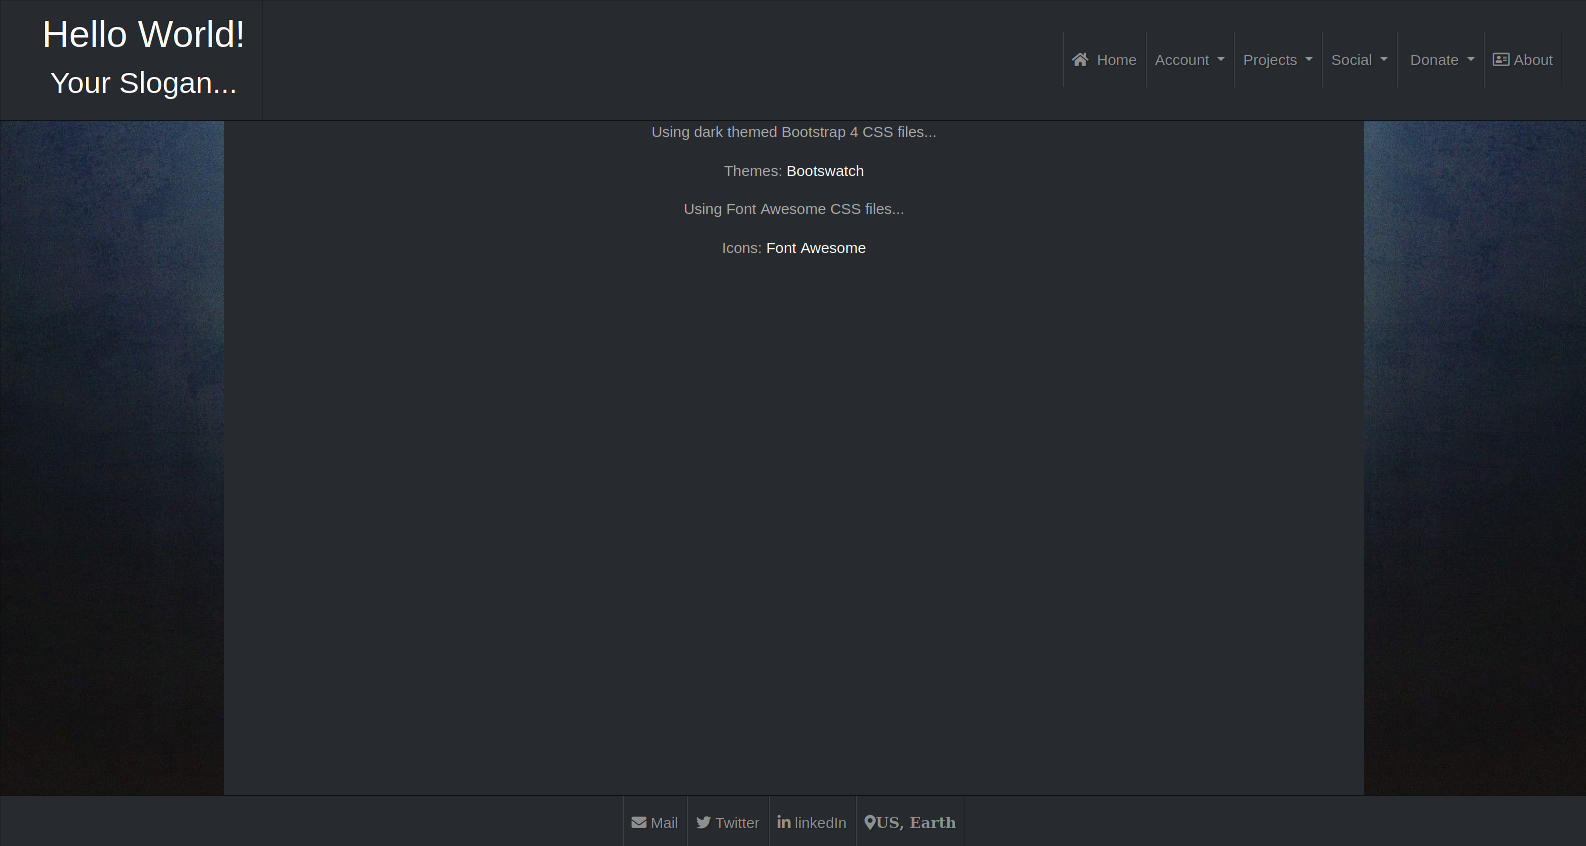
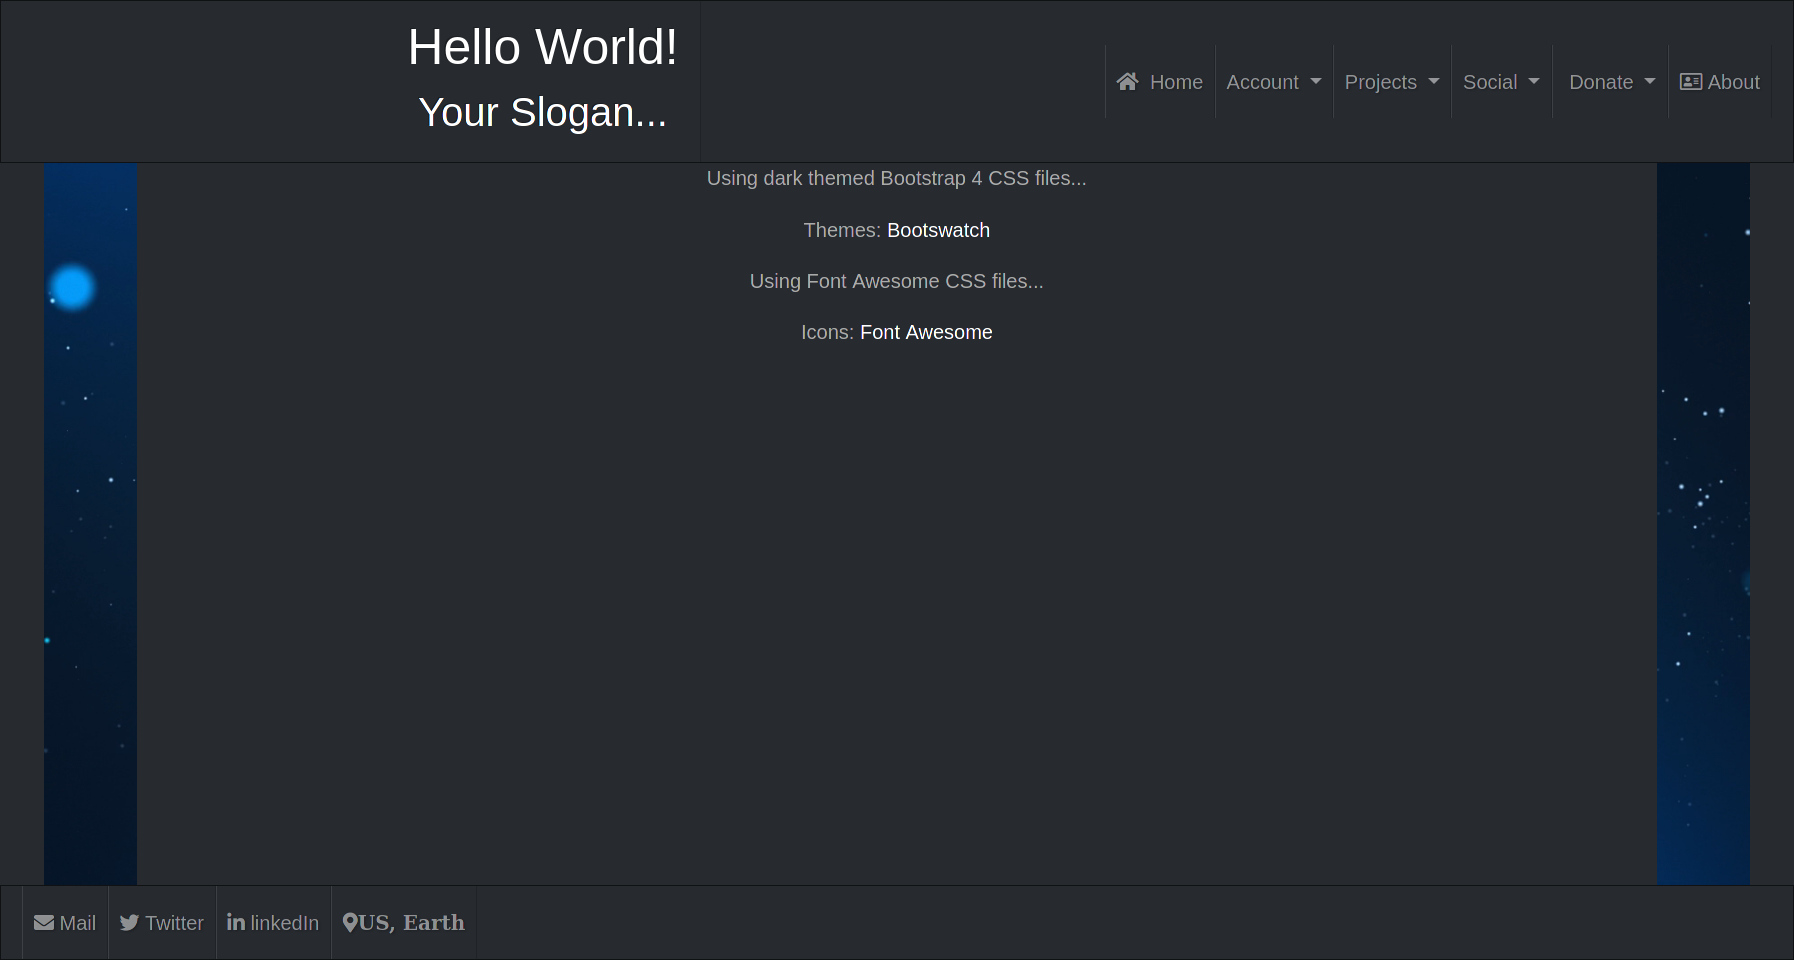
Updated collapse of menus

diff --git a/src/core/templates/layout.html b/src/core/templates/layout.html
@@ -54,8 +54,12 @@
 </head>
 {% endblock %}
 <body>
+    <video id="bg" src="{{ url_for('static', filename='imgs/backgrounds/particles.mp4')}}"
+        poster="{{ url_for('static', filename='imgs/backgrounds/000.png')}}"
+        autoplay loop>
+    </video>
+
     {% block body_header %}
-        <img id="bg" src="{{ url_for('static', filename='imgs/backgrounds/background.jpg')}}" alt="{{title}} Background Logo" />
         {% include "body-header.html" %}
 
         {% block body_header_additional %}

diff --git a/src/core/templates/body-header.html b/src/core/templates/body-header.html
@@ -1,4 +1,4 @@
-<nav class="navbar navbar-expand-lg bg-dark navbar-dark sticky-top justify-content-center text-center">
+<nav class="navbar navbar-expand-lg bg-dark navbar-dark justify-content-center text-center sticky-top">
     <button class="navbar-toggler" type="button" data-toggle="collapse"
             data-target="#navbarTogglerHeader" aria-controls="navbarTogglerHeader"
                 aria-expanded="false" aria-label="Toggle Header Navigation">
